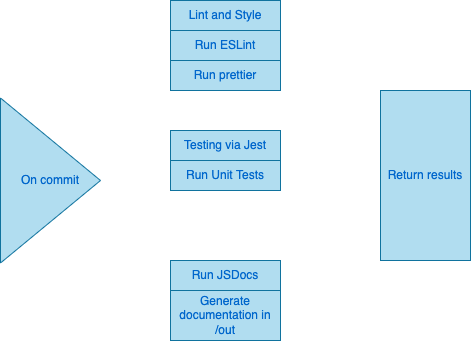
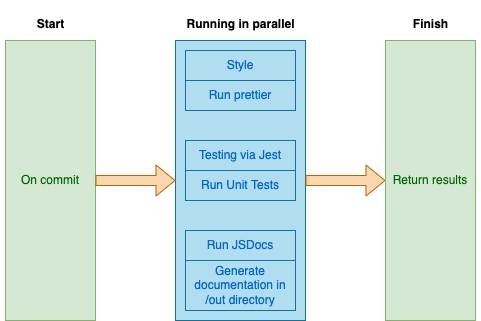
cipipeline description complete

diff --git a/admin/cipipeline/phase1.md b/admin/cipipeline/phase1.md
@@ -8,6 +8,8 @@
 | Documentation Generation | <ul><li>Improved code understanding</li><li>Time saving in group settings</li></ul> | <ul><li>Maintnence overhead</li><li>Limited context</li></ul>|
 
 ### Current Choices:
+-  ✅ Automated Formatting
+    - Done using Prettier
 -  ✅ Automated Unit Tests
     - Done using Jest
 -  ✅ Documentation generation
@@ -17,8 +19,12 @@
 -  ❓ Code Quality/Style via tools 
     - Not sure
 
+---
+
 ### Goals:
 - Workflows running in parallel (split by task)
+
+---
 
 ### Pipeline Status:
 - In progress:
@@ -28,3 +34,20 @@
     - One workflow with all tasks
     - Unit testing workflow via Jest
     - Document generation workflow via JSDocs
+
+---
+
+### Philosophy:
+Some general principles that we followed when choosing our CI/CD Pipeline tools
+include the following:
+- **Simplicity:** From lecture, we learned that introducing new tools is not
+  always beneficial to the team. Decluttering the pipeline and focusing on core
+  functionality will save our team time and effort spent on configuration,
+  maintnence and troubleshooting.
+- **Ease of Adoption:** We want to keep the complexity of
+  our pipeline to a minimum to avoid sinking time into learning those tools
+  rather than getting meaningful work done.
+- **Only necessary features included:** Our pipline decisions stick to the
+  basics: testing, document generation, and prettier code. The tools we choose
+  should only exist to perform basic necessary tasks.
+
